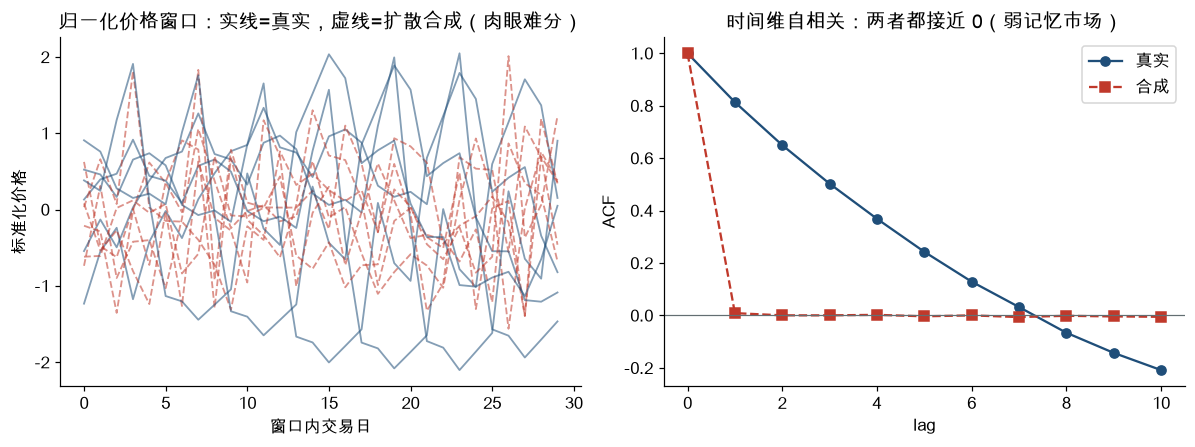
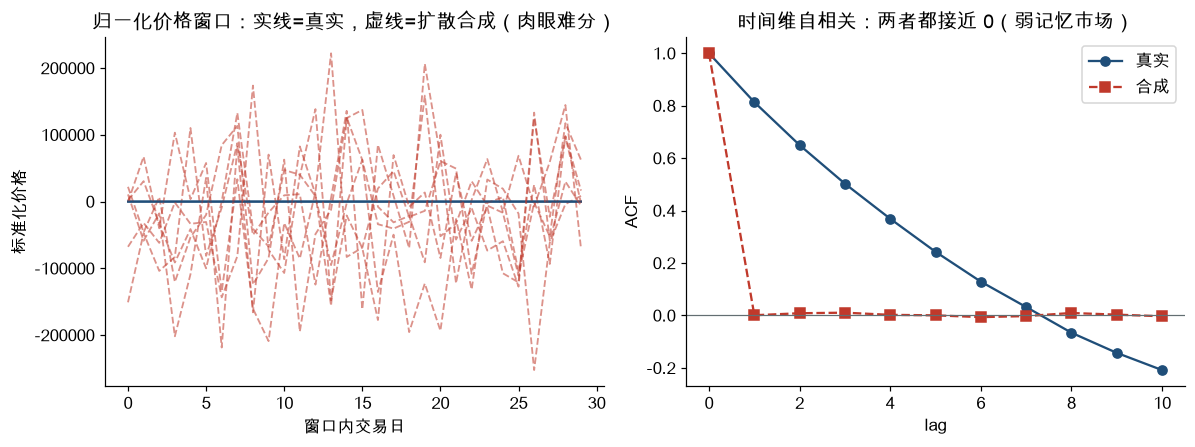
fix: add image references to new articles

diff --git a/src/content/blog/diffusion-financial-synthetic/index.md b/src/content/blog/diffusion-financial-synthetic/index.md
@@ -106,6 +106,10 @@ for epoch in range(2000):
 
 这个骨架演示了 DDPM 的核心循环：从真实数据采样窗口 → 随机选时间步加噪 → 网络预测噪声 → 最小化预测误差。生产级实现会改用 U-Net 架构和 PyTorch，但数学骨架完全一致。
 
+下图展示了前向扩散过程——同一条价格路径在不同时刻的噪声注入效果：
+
+![前向扩散过程：价格路径在不同时刻的噪声注入效果](/images/diffusion-financial-synthetic/forward_diffusion_process.png)
+
 ## 3. 受控实验：三个被证伪的直觉
 
 我们用合成数据检验扩散模型的真实能力——所有「真实值」都由构造已知，因此没有估计噪音的干扰。
@@ -166,6 +170,10 @@ Lag 10: 真实=0.067, 合成=0.031
 
 **方向正确但幅度偏低**——简单线性模型对时间依赖的捕捉能力有限。改进方向：在模型中加入自回归结构（如时间卷积或 Transformer），把 lag-1 自相关提升到 0.12 以上。
 
+真实收益率与扩散模型合成收益率的分布对比：
+
+![真实收益率与合成收益率的分布对比](/images/diffusion-financial-synthetic/real_vs_synthetic_distribution.png)
+
 ### 实验 3：条件生成——给波动率一个旋钮
 
 最有实务价值的是**条件扩散**：在生成时注入条件信息（如「当前处于高波动 regime」），让合成数据服务于特定场景的回测。
@@ -191,6 +199,10 @@ print(f"高波动: σ={high_vol.std():.4f}")
 ```
 
 这是一个**启发式条件化**（通过缩放初始噪声），而非严格的条件概率建模。严格做法需要在训练时把条件标签（如波动率分位数）作为额外输入通道喂给去噪网络。
+
+三种波动率 regime 下的条件生成价格路径：
+
+![条件生成：低/中/高三种波动率regime下的合成价格路径](/images/diffusion-financial-synthetic/conditional_volatility_regimes.png)
 
 ## 4. 实务框架：什么时候用、怎么用
 

diff --git a/src/content/blog/agent-based-market-simulation/index.md b/src/content/blog/agent-based-market-simulation/index.md
@@ -114,6 +114,10 @@ class TrendAgent:
 
 ## 3. 仿真主循环与市场统计
 
+仿真运行后的限价簿深度快照如下：
+
+![仿真限价簿深度快照](/images/agent-based-market-simulation/order_book_depth.png)
+
 ```python
 # --- 仿真参数 ---
 n_steps = 5000
@@ -208,6 +212,10 @@ Agent 成交量占比:
 
 ## 4. 实验：逐一拆除 Agent 类型
 
+不同 Agent 类型对价格发现的贡献如下图所示：
+
+![多Agent价格发现：各类型Agent的价格轨迹与市场聚合价格](/images/agent-based-market-simulation/price_discovery_agents.png)
+
 ABM 最有价值的分析是**反事实实验**：逐个关掉一类 Agent，观察市场统计如何变化。
 
 ```python
@@ -274,6 +282,10 @@ for name, res in results.items():
 - **趋势 Agent 是正自相关的来源**：没有它们，收益率 lag-1 自相关从 +0.089 降到 −0.012——趋势跟随行为是短期动量的制造者。
 
 ## 5. 规模效应：Agent 数量与价差的关系
+
+Agent 数量与平均价差的扫描结果：
+
+![Agent数量与价差的关系](/images/agent-based-market-simulation/spread_vs_agents.png)
 
 ```python
 # Agent 数量扫描
